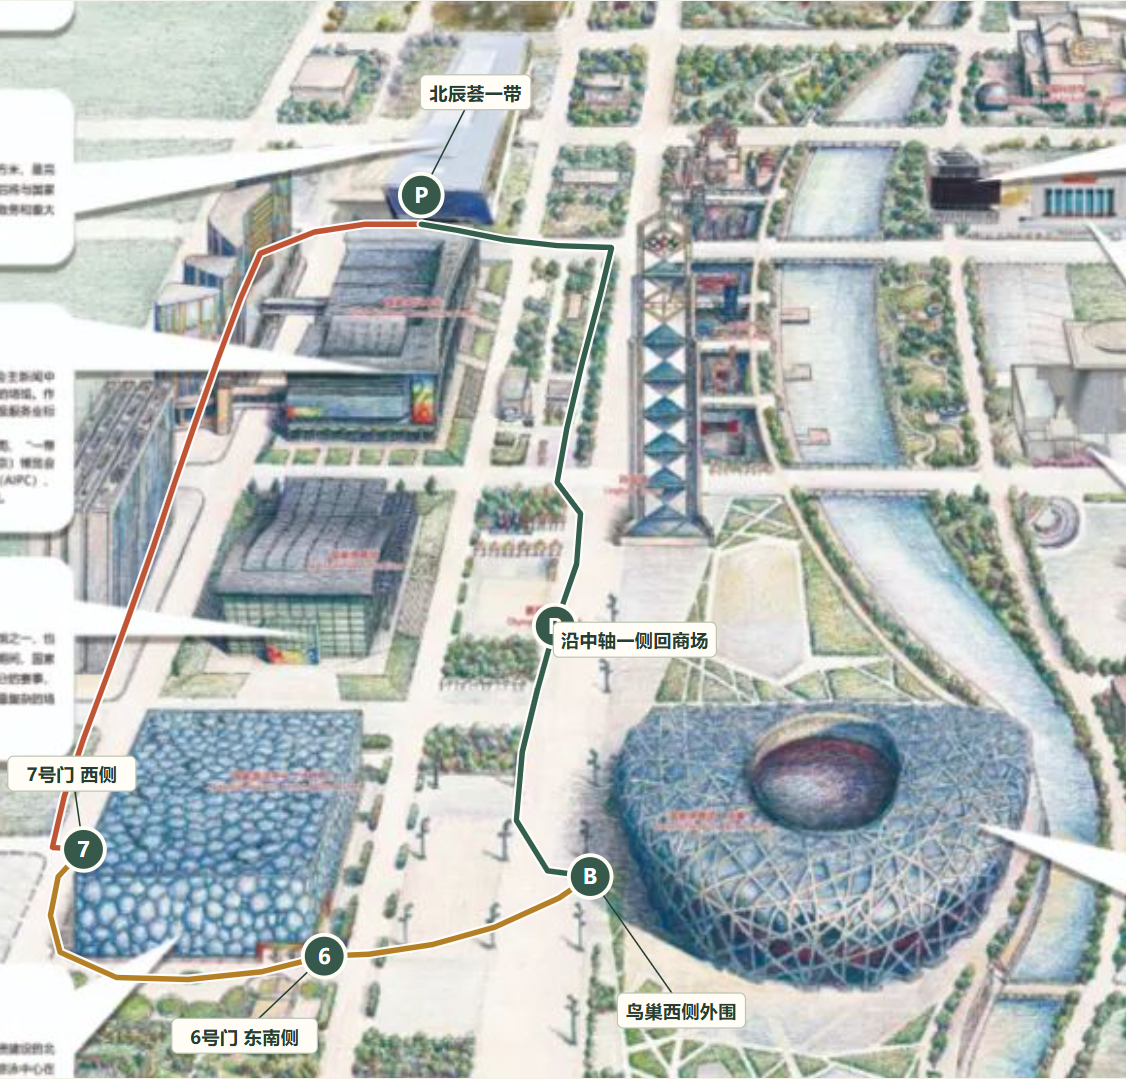
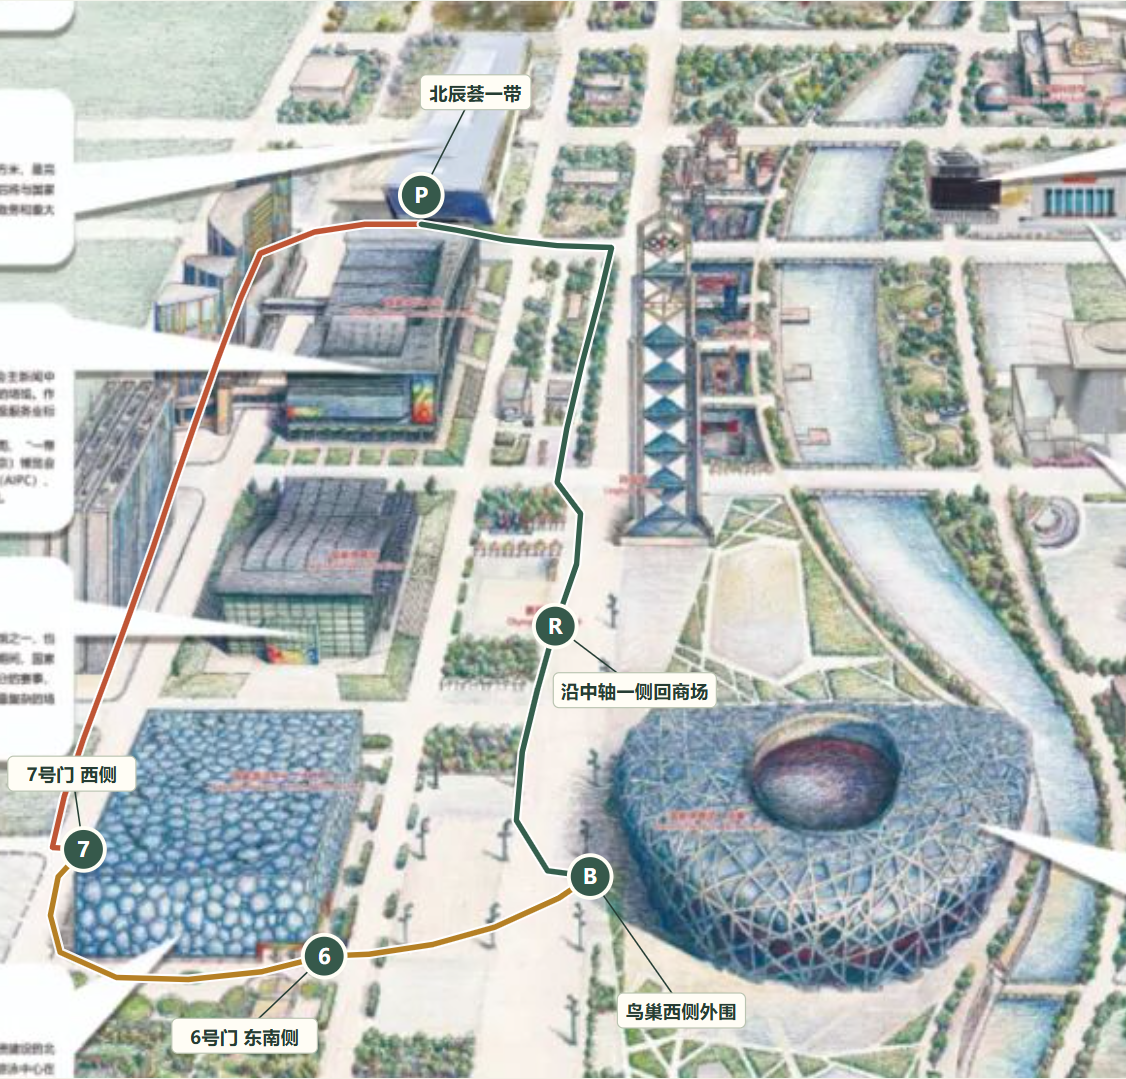
Improve route label separation

Changed region(s): [[0.4663, 0.5505, 0.6528, 0.6728]]

diff --git a/index.html b/index.html
@@ -50,7 +50,7 @@
 <section class="section" id="maps"><div class="section-head"><div><p class="eyebrow">THE ROUTE · 先看清楚，再出发</p><h2>真实地图，把路线连起来</h2><p class="lede">上午用奥森官网导览底图，下午用中心区全景图。点编号看这一站；放大后可以拖动查看。另附现成赏秋图和3.6公里环湖线。</p></div></div>
 <div class="map-card" id="map-card"><div class="map-tabs" role="group" aria-label="选择地图"><button data-map="forest" aria-pressed="true">上午 · 赏秋路线</button><button data-map="central" aria-pressed="false">下午 · 场馆路线</button><button data-map="reference" aria-pressed="false">别人做好的图</button><button id="fullscreen" class="fullscreen-button">全屏查看</button></div>
 <div class="map-subhead" id="map-subhead"><div><strong id="map-title">西门进出 · 湿地小环＋湖岸短支线</strong><p id="map-subtitle">红色为主线；蓝色为可选山坡支线。湖岸和山坡走完原路回接。</p></div><div class="map-tools"><button id="zoom-out" aria-label="缩小地图">−</button><button id="zoom-fit">全图</button><button id="zoom-in" aria-label="放大地图">＋</button></div></div>
-<div class="map-view" id="map-view"><div class="map-stage" id="map-stage"><div data-pane="forest"><svg xmlns="http://www.w3.org/2000/svg" viewBox="145 590 465 280" role="img" aria-label="西门进出 · 湿地环游＋湖岸短支线，真实导览底图加游览路线"><image href="assets/forest-official.png" width="1200" height="1253"/><polyline points="168,818 195,818 223,818 247,820 271,829 293,831 316,833 330,823 341,807 355,787 366,773 380,760 361,749 347,737 333,721 326,703 328,683 339,661 355,646 380,632 406,623 430,616 427,633 429,650 438,658 441,674 438,692 440,710 430,729 413,742 392,754 380,760 393,774 412,784 438,795 451,806 465,824 480,840 465,824 451,806 438,795 412,784 393,774 380,760 366,773 355,787 341,807 330,823 316,833 293,831 271,829 247,820 223,818 195,818 168,818" fill="none" stroke="white" stroke-width="5" stroke-linecap="round" stroke-linejoin="round" opacity=".92"/><polyline points="168,818 195,818 223,818 247,820 271,829 293,831 316,833 330,823 341,807 355,787 366,773 380,760 361,749 347,737 333,721 326,703 328,683 339,661 355,646 380,632 406,623 430,616 427,633 429,650 438,658 441,674 438,692 440,710 430,729 413,742 392,754 380,760 393,774 412,784 438,795 451,806 465,824 480,840 465,824 451,806 438,795 412,784 393,774 380,760 366,773 355,787 341,807 330,823 316,833 293,831 271,829 247,820 223,818 195,818 168,818" fill="none" stroke="#be4d2e" stroke-width="2.8" stroke-linejoin="round" stroke-linecap="round" /><polyline points="429,650 441,660 454,668 466,674 478,676 488,673 501,664 514,656 532,648 547,637" fill="none" stroke="white" stroke-width="5" stroke-linecap="round" stroke-linejoin="round" opacity=".92"/><polyline points="429,650 441,660 454,668 466,674 478,676 488,673 501,664 514,656 532,648 547,637" fill="none" stroke="#247b9d" stroke-width="2.8" stroke-linejoin="round" stroke-linecap="round" stroke-dasharray="5 3"/><g class="map-pin" role="button" tabindex="0" aria-label="西门 / 取车" data-poi="P" data-mode="forest"><path d="M168 818L192 848" stroke="#263e35" stroke-width=".8"/><circle cx="168" cy="818" r="11" fill="#36594b" stroke="#fffef5" stroke-width="2"/><text x="168" y="822" text-anchor="middle" font-family="sans-serif" fill="white" font-size="11" font-weight="700">P</text><rect x="154.5" y="841" width="75" height="18" rx="3" fill="#fffdf5" stroke="#bac4b1" stroke-width=".6"/><text x="192" y="854" text-anchor="middle" fill="#263d33" font-size="9.5" font-weight="600" font-family="Microsoft YaHei,sans-serif">西门 / 取车</text></g><g class="map-pin" role="button" tabindex="0" aria-label="银杏道" data-poi="1" data-mode="forest"><path d="M247 820L238 797" stroke="#263e35" stroke-width=".8"/><circle cx="247" cy="820" r="11" fill="#36594b" stroke="#fffef5" stroke-width="2"/><text x="247" y="824" text-anchor="middle" font-family="sans-serif" fill="white" font-size="11" font-weight="700">1</text><rect x="215.5" y="790" width="45" height="18" rx="3" fill="#fffdf5" stroke="#bac4b1" stroke-width=".6"/><text x="238" y="803" text-anchor="middle" fill="#263d33" font-size="9.5" font-weight="600" font-family="Microsoft YaHei,sans-serif">银杏道</text></g><g class="map-pin" role="button" tabindex="0" aria-label="湿地" data-poi="2" data-mode="forest"><path d="M328 683L304 632" stroke="#263e35" stroke-width=".8"/><circle cx="328" cy="683" r="11" fill="#36594b" stroke="#fffef5" stroke-width="2"/><text x="328" y="687" text-anchor="middle" font-family="sans-serif" fill="white" font-size="11" font-weight="700">2</text><rect x="281.5" y="625" width="45" height="18" rx="3" fill="#fffdf5" stroke="#bac4b1" stroke-width=".6"/><text x="304" y="638" text-anchor="middle" fill="#263d33" font-size="9.5" font-weight="600" font-family="Microsoft YaHei,sans-serif">湿地</text></g><g class="map-pin" role="button" tabindex="0" aria-label="仰山西侧（可选）" data-poi="3" data-mode="forest"><path d="M488 673L486 610" stroke="#263e35" stroke-width=".8"/><circle cx="488" cy="673" r="11" fill="#36594b" stroke="#fffef5" stroke-width="2"/><text x="488" y="677" text-anchor="middle" font-family="sans-serif" fill="white" font-size="11" font-weight="700">3</text><rect x="444.0" y="603" width="84" height="18" rx="3" fill="#fffdf5" stroke="#bac4b1" stroke-width=".6"/><text x="486" y="616" text-anchor="middle" fill="#263d33" font-size="9.5" font-weight="600" font-family="Microsoft YaHei,sans-serif">仰山西侧（可选）</text></g><g class="map-pin" role="button" tabindex="0" aria-label="奥海西岸" data-poi="4" data-mode="forest"><path d="M480 840L506 847" stroke="#263e35" stroke-width=".8"/><circle cx="480" cy="840" r="11" fill="#36594b" stroke="#fffef5" stroke-width="2"/><text x="480" y="844" text-anchor="middle" font-family="sans-serif" fill="white" font-size="11" font-weight="700">4</text><rect x="482.0" y="840" width="48" height="18" rx="3" fill="#fffdf5" stroke="#bac4b1" stroke-width=".6"/><text x="506" y="853" text-anchor="middle" fill="#263d33" font-size="9.5" font-weight="600" font-family="Microsoft YaHei,sans-serif">奥海西岸</text></g></svg></div><div data-pane="central" hidden><svg xmlns="http://www.w3.org/2000/svg" viewBox="220 485 580 555" role="img" aria-label="北辰荟所在区域—水立方—鸟巢外围—回北辰荟，真实导览底图加游览路线"><image href="assets/central-guide.jpg" width="1080" height="1575"/><polyline points="437,600 408,600 382,604 354,615 344,638 332,670 320,704 310,733 299,766 287,800 275,833 263,865 253,895 247,921 263,922" fill="none" stroke="white" stroke-width="5" stroke-linecap="round" stroke-linejoin="round" opacity=".92"/><polyline points="437,600 408,600 382,604 354,615 344,638 332,670 320,704 310,733 299,766 287,800 275,833 263,865 253,895 247,921 263,922" fill="none" stroke="#bf5535" stroke-width="2.8" stroke-linejoin="round" stroke-linecap="round" /><polyline points="263,922 250,936 246,956 251,975 280,988 317,989 355,985 387,977 410,976 443,971 475,962 508,947 524,936" fill="none" stroke="white" stroke-width="5" stroke-linecap="round" stroke-linejoin="round" opacity=".92"/><polyline points="263,922 250,936 246,956 251,975 280,988 317,989 355,985 387,977 410,976 443,971 475,962 508,947 524,936" fill="none" stroke="#b58025" stroke-width="2.8" stroke-linejoin="round" stroke-linecap="round" /><polyline points="524,936 502,933 486,907 489,872 497,839 506,807 517,775 519,749 507,733 512,705 520,671 529,637 535,612 507,611 480,608 455,603 437,600" fill="none" stroke="white" stroke-width="5" stroke-linecap="round" stroke-linejoin="round" opacity=".92"/><polyline points="524,936 502,933 486,907 489,872 497,839 506,807 517,775 519,749 507,733 512,705 520,671 529,637 535,612 507,611 480,608 455,603 437,600" fill="none" stroke="#355f4d" stroke-width="2.8" stroke-linejoin="round" stroke-linecap="round" /><g class="map-pin" role="button" tabindex="0" aria-label="北辰荟一带" data-poi="P" data-mode="central"><path d="M437 585L465 530" stroke="#263e35" stroke-width=".8"/><circle cx="437" cy="585" r="11" fill="#36594b" stroke="#fffef5" stroke-width="2"/><text x="437" y="589" text-anchor="middle" font-family="sans-serif" fill="white" font-size="11" font-weight="700">P</text><rect x="436.5" y="523" width="57" height="18" rx="3" fill="#fffdf5" stroke="#bac4b1" stroke-width=".6"/><text x="465" y="536" text-anchor="middle" fill="#263d33" font-size="9.5" font-weight="600" font-family="Microsoft YaHei,sans-serif">北辰荟一带</text></g><g class="map-pin" role="button" tabindex="0" aria-label="7号门 西侧" data-poi="7" data-mode="central"><path d="M263 922L257.0 881" stroke="#263e35" stroke-width=".8"/><circle cx="263" cy="922" r="11" fill="#36594b" stroke="#fffef5" stroke-width="2"/><text x="263" y="926" text-anchor="middle" font-family="sans-serif" fill="white" font-size="11" font-weight="700">7</text><rect x="224.0" y="874" width="66" height="18" rx="3" fill="#fffdf5" stroke="#bac4b1" stroke-width=".6"/><text x="257.0" y="887" text-anchor="middle" fill="#263d33" font-size="9.5" font-weight="600" font-family="Microsoft YaHei,sans-serif">7号门 西侧</text></g><g class="map-pin" role="button" tabindex="0" aria-label="6号门 东南侧" data-poi="6" data-mode="central"><path d="M387 977L346 1016" stroke="#263e35" stroke-width=".8"/><circle cx="387" cy="977" r="11" fill="#36594b" stroke="#fffef5" stroke-width="2"/><text x="387" y="981" text-anchor="middle" font-family="sans-serif" fill="white" font-size="11" font-weight="700">6</text><rect x="308.5" y="1009" width="75" height="18" rx="3" fill="#fffdf5" stroke="#bac4b1" stroke-width=".6"/><text x="346" y="1022" text-anchor="middle" fill="#263d33" font-size="9.5" font-weight="600" font-family="Microsoft YaHei,sans-serif">6号门 东南侧</text></g><g class="map-pin" role="button" tabindex="0" aria-label="鸟巢西侧外围" data-poi="B" data-mode="central"><path d="M524 936L571 1003" stroke="#263e35" stroke-width=".8"/><circle cx="524" cy="936" r="11" fill="#36594b" stroke="#fffef5" stroke-width="2"/><text x="524" y="940" text-anchor="middle" font-family="sans-serif" fill="white" font-size="11" font-weight="700">B</text><rect x="538.0" y="996" width="66" height="18" rx="3" fill="#fffdf5" stroke="#bac4b1" stroke-width=".6"/><text x="571" y="1009" text-anchor="middle" fill="#263d33" font-size="9.5" font-weight="600" font-family="Microsoft YaHei,sans-serif">鸟巢西侧外围</text></g><g class="map-pin" role="button" tabindex="0" aria-label="沿中轴一侧回商场" data-poi="R" data-mode="central"><path d="M506 807L547 812" stroke="#263e35" stroke-width=".8"/><circle cx="506" cy="807" r="11" fill="#36594b" stroke="#fffef5" stroke-width="2"/><text x="506" y="811" text-anchor="middle" font-family="sans-serif" fill="white" font-size="11" font-weight="700">R</text><rect x="505.0" y="805" width="84" height="18" rx="3" fill="#fffdf5" stroke="#bac4b1" stroke-width=".6"/><text x="547" y="818" text-anchor="middle" fill="#263d33" font-size="9.5" font-weight="600" font-family="Microsoft YaHei,sans-serif">沿中轴一侧回商场</text></g></svg></div><div data-pane="reference" hidden><div class="reference-layout"><figure><img src="assets/autumn-reference.jpg" loading="lazy" alt="路蝶制作的奥森秋景经典位置图，标注银杏林与湿地等赏秋位置"><figcaption>现成赏秋点位图：十六番 路蝶_353，2023。点图下方链接可看完整攻略；旧停车优惠不沿用。</figcaption></figure><div><h3>这次借鉴了哪条思路</h3><p>常去游客的原图把南园西门、湿地芦苇、奥海西岸银杏集中标了出来。我们保留这组看点，按自驾取车改成西门进出的走法。</p><a class="btn" href="http://live.16fan.com/info/367272.html" target="_blank" rel="noopener">打开作者完整攻略 ↗</a><h3 style="margin-top:25px">如果更想规整地环湖</h3><figure><img src="assets/pacer-loop.png" loading="lazy" alt="Pacer奥海3.6公里环湖路线原图"><figcaption>Pacer现成3.6公里环线。© Mapbox / © OpenStreetMap contributors。此图不是上面西门赏秋线的里程。</figcaption></figure><p style="margin-top:12px">这条从南门起终点，绕奥海走一圈，路线更规整。若改走它，直接使用南门停车和同门取车，不要上午再去西门绕接。</p><a class="btn" href="https://www.mypacer.com/zh-hans/routes/216415/奥林匹克森林公园南园-走路和跑步-朝阳区-北京市-中国" target="_blank" rel="noopener">打开3.6公里原路线 ↗</a></div></div></div></div></div>
+<div class="map-view" id="map-view"><div class="map-stage" id="map-stage"><div data-pane="forest"><svg xmlns="http://www.w3.org/2000/svg" viewBox="145 590 465 290" role="img" aria-label="西门进出 · 湿地环游＋湖岸短支线，真实导览底图加游览路线"><image href="assets/forest-official.png" width="1200" height="1253"/><polyline points="168,818 195,818 223,818 247,820 271,829 293,831 316,833 330,823 341,807 355,787 366,773 380,760 361,749 347,737 333,721 326,703 328,683 339,661 355,646 380,632 406,623 430,616 427,633 429,650 438,658 441,674 438,692 440,710 430,729 413,742 392,754 380,760 393,774 412,784 438,795 451,806 465,824 480,840 465,824 451,806 438,795 412,784 393,774 380,760 366,773 355,787 341,807 330,823 316,833 293,831 271,829 247,820 223,818 195,818 168,818" fill="none" stroke="white" stroke-width="5" stroke-linecap="round" stroke-linejoin="round" opacity=".92"/><polyline points="168,818 195,818 223,818 247,820 271,829 293,831 316,833 330,823 341,807 355,787 366,773 380,760 361,749 347,737 333,721 326,703 328,683 339,661 355,646 380,632 406,623 430,616 427,633 429,650 438,658 441,674 438,692 440,710 430,729 413,742 392,754 380,760 393,774 412,784 438,795 451,806 465,824 480,840 465,824 451,806 438,795 412,784 393,774 380,760 366,773 355,787 341,807 330,823 316,833 293,831 271,829 247,820 223,818 195,818 168,818" fill="none" stroke="#be4d2e" stroke-width="2.8" stroke-linejoin="round" stroke-linecap="round" /><polyline points="429,650 441,660 454,668 466,674 478,676 488,673 501,664 514,656 532,648 547,637" fill="none" stroke="white" stroke-width="5" stroke-linecap="round" stroke-linejoin="round" opacity=".92"/><polyline points="429,650 441,660 454,668 466,674 478,676 488,673 501,664 514,656 532,648 547,637" fill="none" stroke="#247b9d" stroke-width="2.8" stroke-linejoin="round" stroke-linecap="round" stroke-dasharray="5 3"/><g class="map-pin" role="button" tabindex="0" aria-label="西门 / 取车" data-poi="P" data-mode="forest"><path d="M168 818L192 848" stroke="#263e35" stroke-width=".8"/><circle cx="168" cy="818" r="11" fill="#36594b" stroke="#fffef5" stroke-width="2"/><text x="168" y="822" text-anchor="middle" font-family="sans-serif" fill="white" font-size="11" font-weight="700">P</text><rect x="154.5" y="841" width="75" height="18" rx="3" fill="#fffdf5" stroke="#bac4b1" stroke-width=".6"/><text x="192" y="854" text-anchor="middle" fill="#263d33" font-size="9.5" font-weight="600" font-family="Microsoft YaHei,sans-serif">西门 / 取车</text></g><g class="map-pin" role="button" tabindex="0" aria-label="银杏道" data-poi="1" data-mode="forest"><path d="M247 820L238 797" stroke="#263e35" stroke-width=".8"/><circle cx="247" cy="820" r="11" fill="#36594b" stroke="#fffef5" stroke-width="2"/><text x="247" y="824" text-anchor="middle" font-family="sans-serif" fill="white" font-size="11" font-weight="700">1</text><rect x="215.5" y="790" width="45" height="18" rx="3" fill="#fffdf5" stroke="#bac4b1" stroke-width=".6"/><text x="238" y="803" text-anchor="middle" fill="#263d33" font-size="9.5" font-weight="600" font-family="Microsoft YaHei,sans-serif">银杏道</text></g><g class="map-pin" role="button" tabindex="0" aria-label="湿地" data-poi="2" data-mode="forest"><path d="M328 683L304 632" stroke="#263e35" stroke-width=".8"/><circle cx="328" cy="683" r="11" fill="#36594b" stroke="#fffef5" stroke-width="2"/><text x="328" y="687" text-anchor="middle" font-family="sans-serif" fill="white" font-size="11" font-weight="700">2</text><rect x="281.5" y="625" width="45" height="18" rx="3" fill="#fffdf5" stroke="#bac4b1" stroke-width=".6"/><text x="304" y="638" text-anchor="middle" fill="#263d33" font-size="9.5" font-weight="600" font-family="Microsoft YaHei,sans-serif">湿地</text></g><g class="map-pin" role="button" tabindex="0" aria-label="仰山西侧（可选）" data-poi="3" data-mode="forest"><path d="M488 673L486 610" stroke="#263e35" stroke-width=".8"/><circle cx="488" cy="673" r="11" fill="#36594b" stroke="#fffef5" stroke-width="2"/><text x="488" y="677" text-anchor="middle" font-family="sans-serif" fill="white" font-size="11" font-weight="700">3</text><rect x="444.0" y="603" width="84" height="18" rx="3" fill="#fffdf5" stroke="#bac4b1" stroke-width=".6"/><text x="486" y="616" text-anchor="middle" fill="#263d33" font-size="9.5" font-weight="600" font-family="Microsoft YaHei,sans-serif">仰山西侧（可选）</text></g><g class="map-pin" role="button" tabindex="0" aria-label="奥海西岸" data-poi="4" data-mode="forest"><path d="M480 840L506 861" stroke="#263e35" stroke-width=".8"/><circle cx="480" cy="840" r="11" fill="#36594b" stroke="#fffef5" stroke-width="2"/><text x="480" y="844" text-anchor="middle" font-family="sans-serif" fill="white" font-size="11" font-weight="700">4</text><rect x="482.0" y="854" width="48" height="18" rx="3" fill="#fffdf5" stroke="#bac4b1" stroke-width=".6"/><text x="506" y="867" text-anchor="middle" fill="#263d33" font-size="9.5" font-weight="600" font-family="Microsoft YaHei,sans-serif">奥海西岸</text></g></svg></div><div data-pane="central" hidden><svg xmlns="http://www.w3.org/2000/svg" viewBox="220 485 580 555" role="img" aria-label="北辰荟所在区域—水立方—鸟巢外围—回北辰荟，真实导览底图加游览路线"><image href="assets/central-guide.jpg" width="1080" height="1575"/><polyline points="437,600 408,600 382,604 354,615 344,638 332,670 320,704 310,733 299,766 287,800 275,833 263,865 253,895 247,921 263,922" fill="none" stroke="white" stroke-width="5" stroke-linecap="round" stroke-linejoin="round" opacity=".92"/><polyline points="437,600 408,600 382,604 354,615 344,638 332,670 320,704 310,733 299,766 287,800 275,833 263,865 253,895 247,921 263,922" fill="none" stroke="#bf5535" stroke-width="2.8" stroke-linejoin="round" stroke-linecap="round" /><polyline points="263,922 250,936 246,956 251,975 280,988 317,989 355,985 387,977 410,976 443,971 475,962 508,947 524,936" fill="none" stroke="white" stroke-width="5" stroke-linecap="round" stroke-linejoin="round" opacity=".92"/><polyline points="263,922 250,936 246,956 251,975 280,988 317,989 355,985 387,977 410,976 443,971 475,962 508,947 524,936" fill="none" stroke="#b58025" stroke-width="2.8" stroke-linejoin="round" stroke-linecap="round" /><polyline points="524,936 502,933 486,907 489,872 497,839 506,807 517,775 519,749 507,733 512,705 520,671 529,637 535,612 507,611 480,608 455,603 437,600" fill="none" stroke="white" stroke-width="5" stroke-linecap="round" stroke-linejoin="round" opacity=".92"/><polyline points="524,936 502,933 486,907 489,872 497,839 506,807 517,775 519,749 507,733 512,705 520,671 529,637 535,612 507,611 480,608 455,603 437,600" fill="none" stroke="#355f4d" stroke-width="2.8" stroke-linejoin="round" stroke-linecap="round" /><g class="map-pin" role="button" tabindex="0" aria-label="北辰荟一带" data-poi="P" data-mode="central"><path d="M437 585L465 530" stroke="#263e35" stroke-width=".8"/><circle cx="437" cy="585" r="11" fill="#36594b" stroke="#fffef5" stroke-width="2"/><text x="437" y="589" text-anchor="middle" font-family="sans-serif" fill="white" font-size="11" font-weight="700">P</text><rect x="436.5" y="523" width="57" height="18" rx="3" fill="#fffdf5" stroke="#bac4b1" stroke-width=".6"/><text x="465" y="536" text-anchor="middle" fill="#263d33" font-size="9.5" font-weight="600" font-family="Microsoft YaHei,sans-serif">北辰荟一带</text></g><g class="map-pin" role="button" tabindex="0" aria-label="7号门 西侧" data-poi="7" data-mode="central"><path d="M263 922L257.0 881" stroke="#263e35" stroke-width=".8"/><circle cx="263" cy="922" r="11" fill="#36594b" stroke="#fffef5" stroke-width="2"/><text x="263" y="926" text-anchor="middle" font-family="sans-serif" fill="white" font-size="11" font-weight="700">7</text><rect x="224.0" y="874" width="66" height="18" rx="3" fill="#fffdf5" stroke="#bac4b1" stroke-width=".6"/><text x="257.0" y="887" text-anchor="middle" fill="#263d33" font-size="9.5" font-weight="600" font-family="Microsoft YaHei,sans-serif">7号门 西侧</text></g><g class="map-pin" role="button" tabindex="0" aria-label="6号门 东南侧" data-poi="6" data-mode="central"><path d="M387 977L346 1016" stroke="#263e35" stroke-width=".8"/><circle cx="387" cy="977" r="11" fill="#36594b" stroke="#fffef5" stroke-width="2"/><text x="387" y="981" text-anchor="middle" font-family="sans-serif" fill="white" font-size="11" font-weight="700">6</text><rect x="308.5" y="1009" width="75" height="18" rx="3" fill="#fffdf5" stroke="#bac4b1" stroke-width=".6"/><text x="346" y="1022" text-anchor="middle" fill="#263d33" font-size="9.5" font-weight="600" font-family="Microsoft YaHei,sans-serif">6号门 东南侧</text></g><g class="map-pin" role="button" tabindex="0" aria-label="鸟巢西侧外围" data-poi="B" data-mode="central"><path d="M524 936L571 1003" stroke="#263e35" stroke-width=".8"/><circle cx="524" cy="936" r="11" fill="#36594b" stroke="#fffef5" stroke-width="2"/><text x="524" y="940" text-anchor="middle" font-family="sans-serif" fill="white" font-size="11" font-weight="700">B</text><rect x="538.0" y="996" width="66" height="18" rx="3" fill="#fffdf5" stroke="#bac4b1" stroke-width=".6"/><text x="571" y="1009" text-anchor="middle" fill="#263d33" font-size="9.5" font-weight="600" font-family="Microsoft YaHei,sans-serif">鸟巢西侧外围</text></g><g class="map-pin" role="button" tabindex="0" aria-label="沿中轴一侧回商场" data-poi="R" data-mode="central"><path d="M506 807L547 838" stroke="#263e35" stroke-width=".8"/><circle cx="506" cy="807" r="11" fill="#36594b" stroke="#fffef5" stroke-width="2"/><text x="506" y="811" text-anchor="middle" font-family="sans-serif" fill="white" font-size="11" font-weight="700">R</text><rect x="505.0" y="831" width="84" height="18" rx="3" fill="#fffdf5" stroke="#bac4b1" stroke-width=".6"/><text x="547" y="844" text-anchor="middle" fill="#263d33" font-size="9.5" font-weight="600" font-family="Microsoft YaHei,sans-serif">沿中轴一侧回商场</text></g></svg></div><div data-pane="reference" hidden><div class="reference-layout"><figure><img src="assets/autumn-reference.jpg" loading="lazy" alt="路蝶制作的奥森秋景经典位置图，标注银杏林与湿地等赏秋位置"><figcaption>现成赏秋点位图：十六番 路蝶_353，2023。点图下方链接可看完整攻略；旧停车优惠不沿用。</figcaption></figure><div><h3>这次借鉴了哪条思路</h3><p>常去游客的原图把南园西门、湿地芦苇、奥海西岸银杏集中标了出来。我们保留这组看点，按自驾取车改成西门进出的走法。</p><a class="btn" href="http://live.16fan.com/info/367272.html" target="_blank" rel="noopener">打开作者完整攻略 ↗</a><h3 style="margin-top:25px">如果更想规整地环湖</h3><figure><img src="assets/pacer-loop.png" loading="lazy" alt="Pacer奥海3.6公里环湖路线原图"><figcaption>Pacer现成3.6公里环线。© Mapbox / © OpenStreetMap contributors。此图不是上面西门赏秋线的里程。</figcaption></figure><p style="margin-top:12px">这条从南门起终点，绕奥海走一圈，路线更规整。若改走它，直接使用南门停车和同门取车，不要上午再去西门绕接。</p><a class="btn" href="https://www.mypacer.com/zh-hans/routes/216415/奥林匹克森林公园南园-走路和跑步-朝阳区-北京市-中国" target="_blank" rel="noopener">打开3.6公里原路线 ↗</a></div></div></div></div></div>
 <div class="map-legend" id="map-legend"></div><div class="map-info" id="map-info" aria-live="polite">先从 P 西门入园，按1—2—4走红线；想加山坡再走3。结束回 P 取车。</div><div class="map-foot" id="map-credit">底图：奥林匹克森林公园官网。路线结合现成赏秋点位图、按可辨识主路绘制；园内小路与栈道以现场标识为准。</div></div>
 <div class="map-action"><a class="btn" href="assets/morning-route.png" target="_blank" rel="noopener">打开上午路线图，可长按保存 ↗</a><a class="btn" href="assets/afternoon-route.png" target="_blank" rel="noopener">打开下午路线图，可长按保存 ↗</a><a class="btn" href="assets/forest-official.png" target="_blank" rel="noopener">完整官方地图 ↗</a><a class="btn" href="https://uri.amap.com/navigation?to=116.387091%2C40.004026%2C%E5%8C%97%E8%BE%B0%E8%8D%9F%E5%9C%B0%E4%B8%8B%E5%81%9C%E8%BD%A6%E5%9C%BA%E5%85%A5%E5%8F%A3&amp;mode=car&amp;src=olympic-day&amp;callnative=1&amp;from=116.377193%2C40.013655%2C%E5%A5%A5%E6%9E%97%E5%8C%B9%E5%85%8B%E6%A3%AE%E6%9E%97%E5%85%AC%E5%9B%AD%E5%8D%97%E5%9B%AD%E8%A5%BF%E9%97%A8" target="_blank" rel="noopener">中午驾车导航 ↗</a><a class="btn" href="assets/autumn-reference.jpg" target="_blank" rel="noopener">赏秋原图 ↗</a></div>
 </section>
